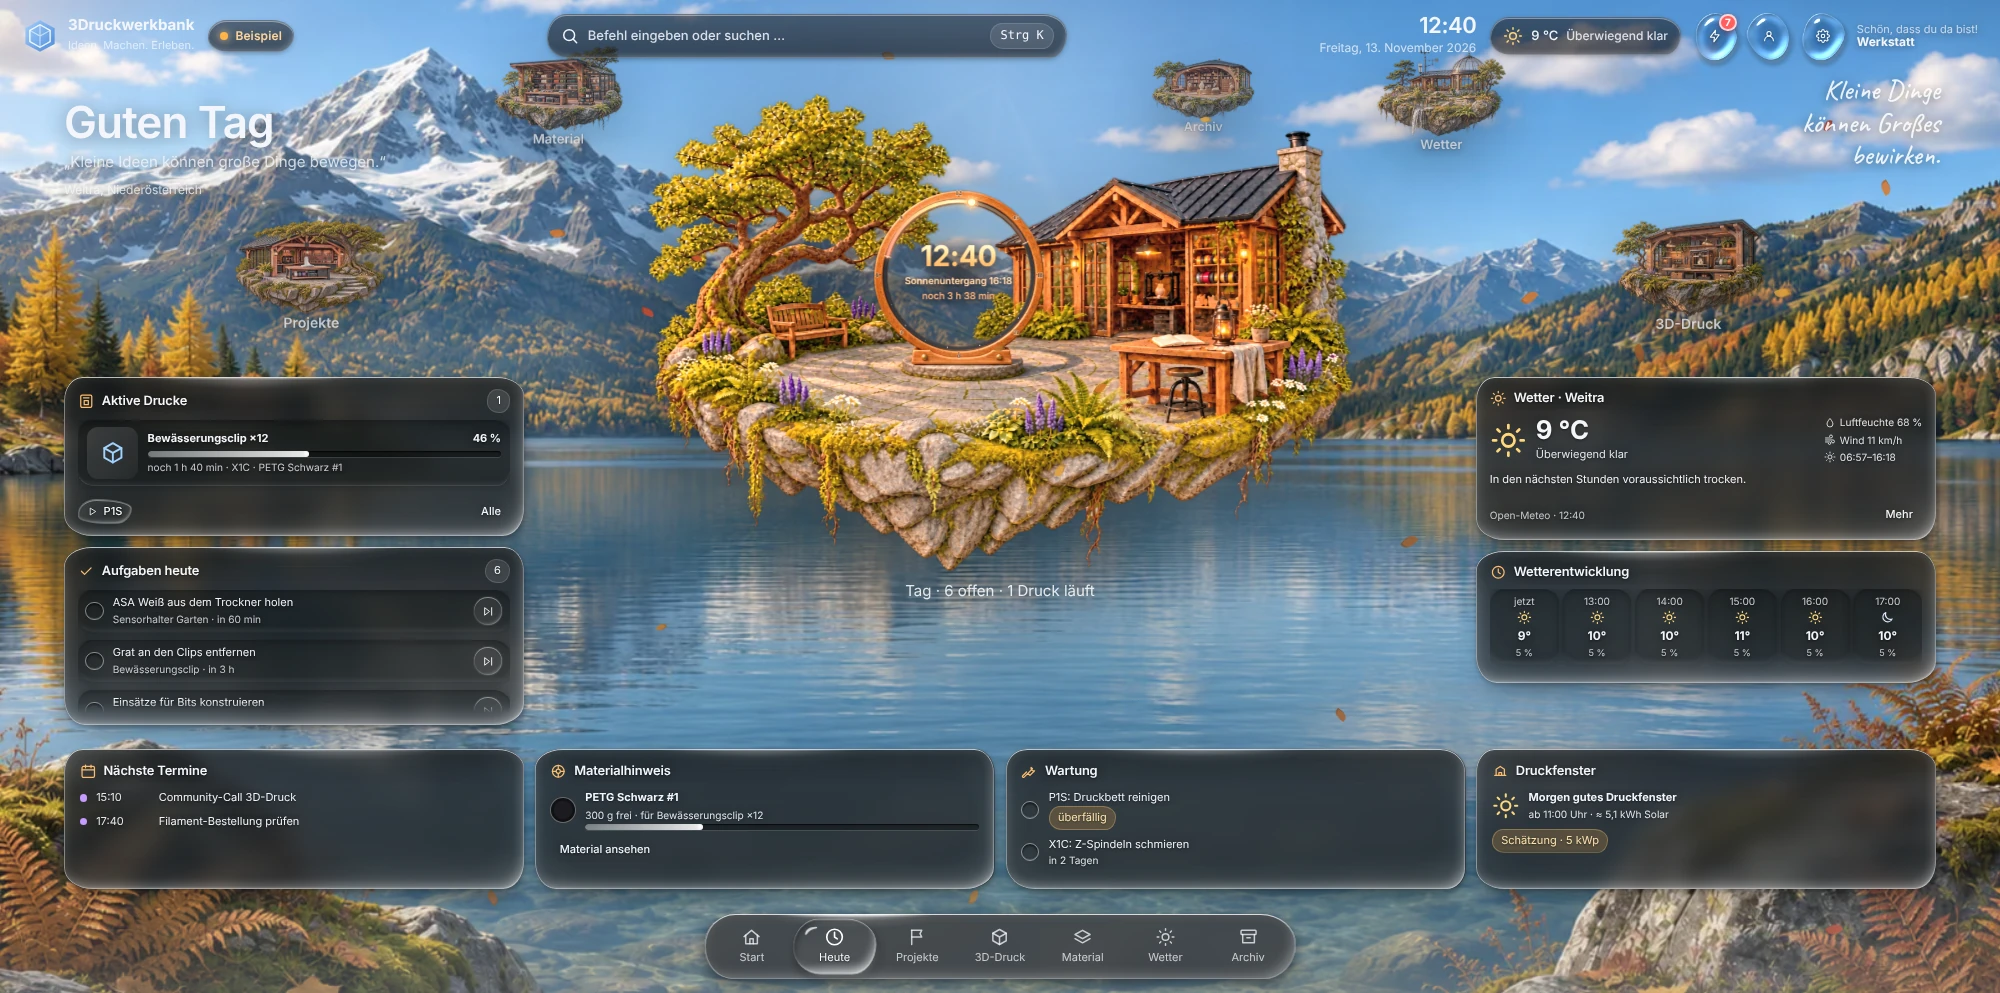
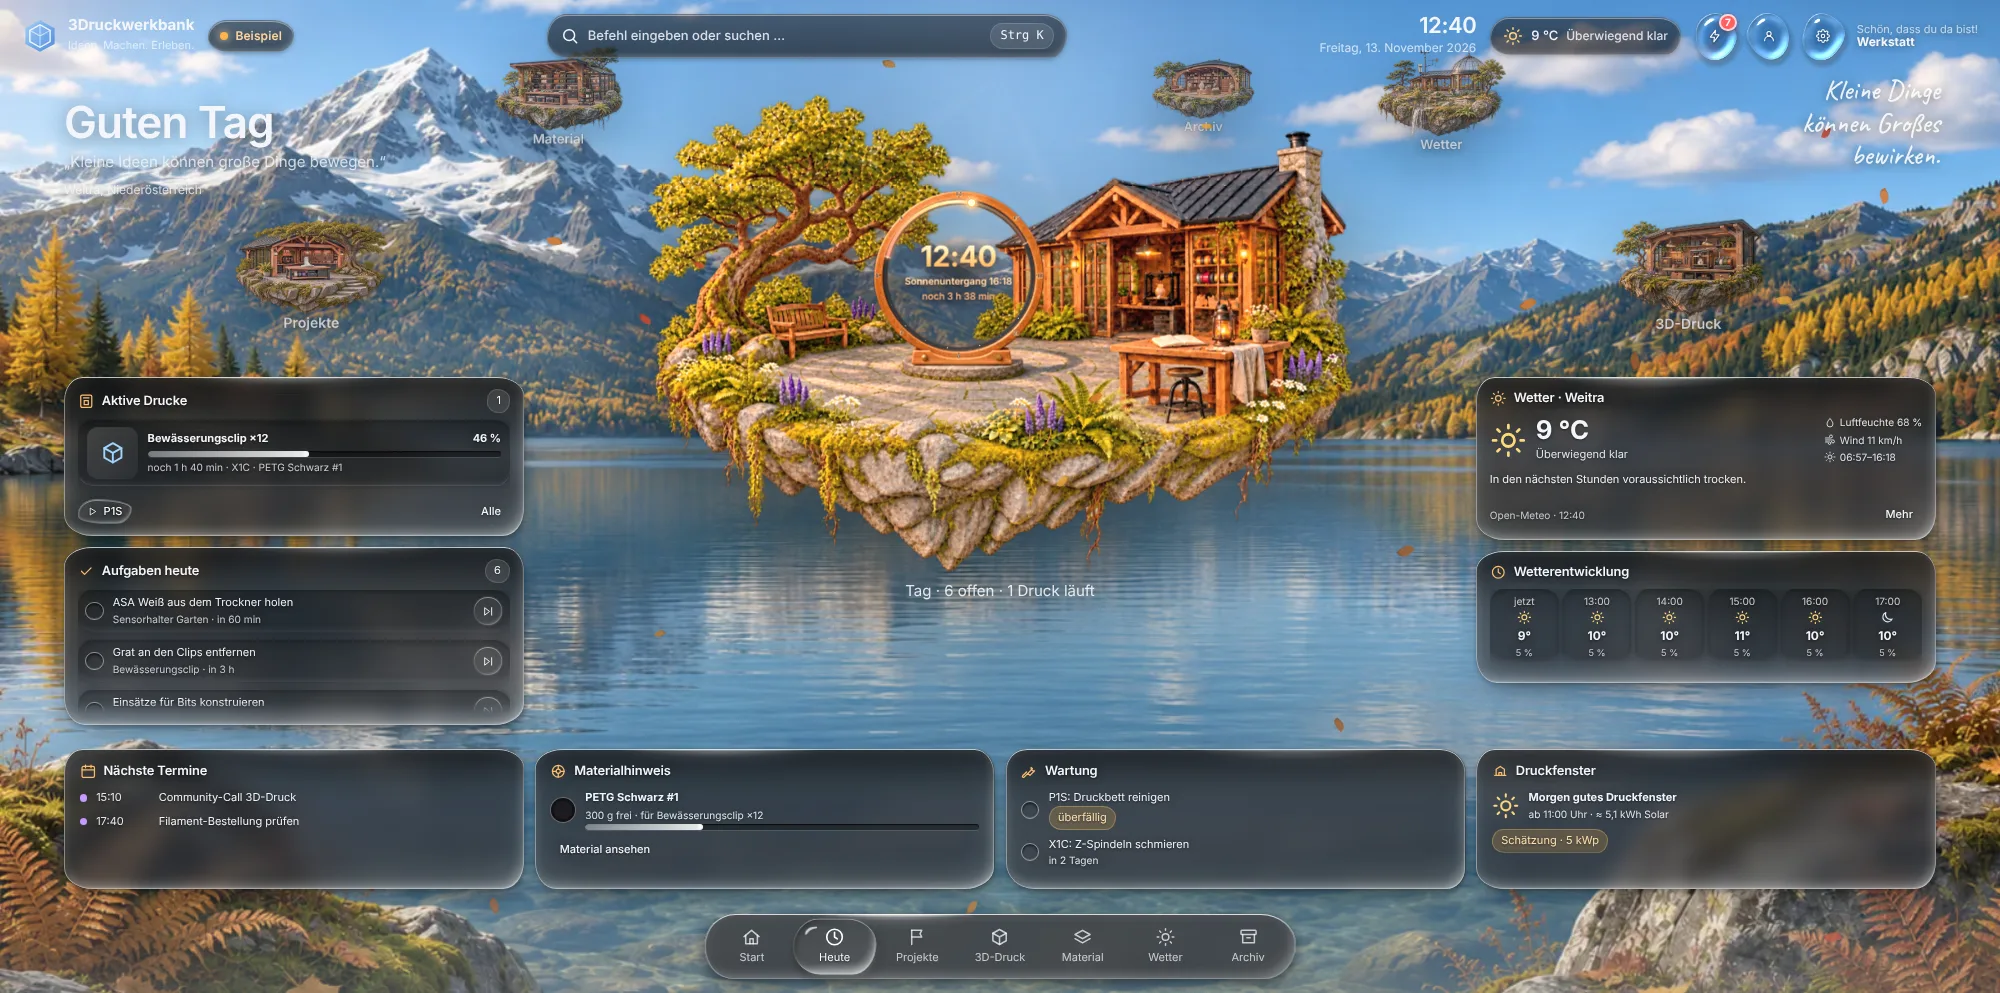
Wasser-Look Feinschliff: Zwischenstand Tempo und Ton (Schritt läuft noch)
Claude-Session: https://claude.ai/code/session_01Bea5Y1uKo4kG3DT62iBBFM

diff --git a/docs/wasser-look/entwurf/NACHSEHEN-FABLE.md b/docs/wasser-look/entwurf/NACHSEHEN-FABLE.md
@@ -49,7 +49,7 @@ Written by Claude Opus 5.5. Both tasks of this step are mine from the start; not
 Written by Claude Opus 5.5 (step of the workflow "Wasser-Look Feinschliff", owner's decisions 7 and 8).
 
 1. **I went beyond the candidate on the desktop, and added two tone tokens.** `kern.css` part 1 (`--wa-weit-grund-panel`, `--wa-weit-kopf` in both blocks; 59 tokens per tone now) and `desktop.css` part 2 (panel `backdrop-filter` and two `box-shadow` lines). Why: the candidate (`--wa-weit-grund: brightness(.8)` for every sheet) held every floor on a November day, but on a winter day (`desktop.mjs kontrast --zeiten 2027-01-15T12:40:00+01:00`) the bottom-row panel title fell to 6.4, "Paneltitel Projekte" to 7.0 and the weather signs' small text to 4.4; the day card's clock fell from 7.1 to 5.1 already in November. I repaired those places (an inset shade over each panel head, a taller one on the day card; dock, weather signs and search keep `brightness(.7)`) instead of darkening the tone. It is a design decision the owner has not seen: the head of a panel in "klar" now stays as dark as before while its middle gets lighter. Check: look at `docs/wasser-look/entwurf/tempo-und-ton/desktop-*.webp` at full size - is the shade at the top of a panel visible as a band? If so, soften the geometry (`inset 0 64px 40px -36px`) or the alpha (.3), then rerun `desktop.mjs kontrast --toene klar --zeiten nacht,tag,2027-01-15T12:40:00+01:00`.
-2. **Thin margins remain.** On the winter day: "Zeile Projekte klein" 4.6 (floor 4.5), "Klickbares Etikett" 4.7, day card date 4.9, day card clock 7.1 (title floor 7, if the clock counts as a title - I treated it as one), "Hauptpanel: Titel" 7.4 (the head shade does not reach it; it is a `b` lower in the panel). One more bright landscape (snow + sun at morning or evening, `regen` look, 1920 x 1080 in winter) might push one of them under. I measured: November day and night at 2000, November day at 1920, one winter noon at 2000 - not winter at 1920, not morning or evening, not the rain landscape.
+2. **Thin margins remain, on the desktop in winter.** Final run on the built look: winter noon at 1920 x 1080 "Klickbares Etikett" (`.panel button.pill`) **4.5** and "Zeile Projekte klein" 4.6 (floor 4.5); at 2000 x 993 4.7 and 4.6; day card date 4.9, day card clock 7.1 (title floor 7, if the clock counts as a title - I treated it as one), "Hauptpanel: Titel" 7.4 (the head shade does not reach it: it is a `b` lower in the panel). Before this step these were 5.7, 5.9, 6.0, 7.2 and 9.1 (winter, 2000). A brighter winter scene (morning or evening landscapes with snow, the `regen` look) was NOT measured and might push one of them under. I measured: November night and noon at 2000, November noon and one winter noon (15.1.2027) at 1920 and 2000. Check: `desktop.mjs kontrast --toene klar --zeiten 2027-01-15T08:40:00+01:00,2027-01-15T15:50:00+01:00 --format 1920`. If one fails, the next repair place is the row text in the side panels (`.side-panel-l .panel__body .xs`) and the head pills - not the tone.
 3. **The floor of 7 for the day card's clock and of 4.5 for its greeting are my reading.** The guide says "titles 7" (desktop.mjs uses 7 for panel titles only). I first measured the 14 px peach greeting against 7 and saw it "fail" before any change (6.1) - it is running text, so 4.5. If the owner or Fable reads "title" differently (e.g. the greeting is a title), the phone's greeting (5.4) and the desktop's (7.5 by day after the repair) need another look.
 4. **The search field's placeholder is below 3 in "klar"** (phone 2.3, desktop 2.6 at night, 1.9 by day), before and after this step. Not repaired (needs its own tone token, the field has no class of the look and shows the browser's placeholder colour). Check: `node scripts/wasser/kontrast.mjs --toene dunkel,klar --css '.cmd__input input' --welt start --bogen suche --art platzhalter --zeiten tag`.
 5. **`--wa-under` keeps its rgb (31, 35, 37)** although the exact mix of clear + shelf + deep is now (37, 43, 48). Measured on the harness: drop labels change by at most 0.1 with the exact colour - so it was a matter of taste and I kept the candidate. Not judged by eye at full size on a real screen. Check: `node scripts/wasser/bild.mjs <dir> nah --toene klar` with both values (a copy of the template with the exact colour is quick to make) and compare a drop's body with the card around it.
@@ -58,4 +58,4 @@ Written by Claude Opus 5.5 (step of the workflow "Wasser-Look Feinschliff", owne
 8. **The before/after pictures are stills at reduced motion** (no wandering lights), so that only the water differs; the owner sees the lights on his screen. Before = the build of `feinschliff-basis` (19447f6, what is live), after = this branch's build, both from the same machine and browser.
 9. **"dunkel" identity was proven against `git:52dfff3` (the state before this step), not against `feinschliff-basis`.** Against the basis, sheets and the search differ inside drops because of the step before (its point 17). See the sollist line in the guide's step 10.
 10. **Not checked:** WebKit (Playwright's WebKit paints no backdrop-filter, so its contrast numbers for "klar" are meaningless - not run), Firefox, a real phone, the owner's RTX screen, Safari. The phone scenes have no time of day: "phone by day" only fixes the clock (no weather, so the phone's day card was measured without its weather and daylight lines; its small daylight labels were not measured on the phone).
-11. **Old klar pictures:** I renewed the "klar" pictures that the guide links (phone harness, phone app, close-ups, sheet of blocks; desktop Heute day/night, Projekte, Wetter). `docs/wasser-look/bilder/desktop/vorher-nachher-tag.webp` (the app before the look against the template, both "Wetter bei Tag") still shows the OLD "klar" in its lower half - see the guide's picture table.
+11. **Old klar pictures:** I renewed the "klar" pictures that the guide links (phone harness, phone app, close-ups, sheet of blocks; desktop Heute day/night, Projekte, Wetter). `docs/wasser-look/bilder/desktop/vorher-nachher-tag.webp` (the app before the look against the template, both "Wetter bei Tag") still shows the OLD "klar" in its lower half (noted in the guide's picture table); so do the films `mobil.mp4` / `desktop.mp4` and the filmstrips `film-*.webp` (old pace; they were never meant to be redone per change). The klar pictures under `docs/wasser-look/bilder/anleitung/` (the guide's sample page) were not checked by me.

diff --git a/docs/Wasser-Look.md b/docs/Wasser-Look.md
@@ -45,7 +45,7 @@ Alle Befehle laufen aus dem Projektordner. Ausgaben gehen nach `screenshots/` (n
 | **Desktop**, „klar“ vorher / nachher (14.11. abends, Schritt 10) | | Mittag: [Start](wasser-look/entwurf/tempo-und-ton/desktop-tag-start.webp) · [Heute](wasser-look/entwurf/tempo-und-ton/desktop-tag-heute.webp) · [Projekte](wasser-look/entwurf/tempo-und-ton/desktop-tag-projekte.webp) – Nacht: [Start](wasser-look/entwurf/tempo-und-ton/desktop-nacht-start.webp) · [Heute](wasser-look/entwurf/tempo-und-ton/desktop-nacht-heute.webp) · [Projekte](wasser-look/entwurf/tempo-und-ton/desktop-nacht-projekte.webp) |
 
 Bewegung als Bildstreifen: Handy [Reiterwechsel](wasser-look/bilder/mobil/film-tab.webp), [Knopfdruck mit Ring](wasser-look/bilder/mobil/film-druck.webp), [Bogen steigt](wasser-look/bilder/mobil/film-bogen.webp); Desktop [Dock, Schublade, Ruhe](wasser-look/bilder/desktop/film-1.webp), [Ring, Mauszeiger](wasser-look/bilder/desktop/film-2.webp), [Pfeil, Lauflinie](wasser-look/bilder/desktop/film-3.webp).
-Filme: [mobil.mp4](wasser-look/bilder/mobil/mobil.mp4), [desktop.mp4](wasser-look/bilder/desktop/desktop.mp4) – auf der Arbeitsmaschine aufgenommen, daher ruckelig. Das Tempo der Lichter, bisher gegen neu (Schritt 9): [tempo.mp4](wasser-look/entwurf/tempo-und-ton/tempo.mp4), als Bildstreifen [tempo.webp](wasser-look/entwurf/tempo-und-ton/tempo.webp).
+Filme: [mobil.mp4](wasser-look/bilder/mobil/mobil.mp4), [desktop.mp4](wasser-look/bilder/desktop/desktop.mp4) – auf der Arbeitsmaschine aufgenommen, daher ruckelig; sie zeigen noch das Tempo und das „klar“ vor dem 14.11. abends. Das Tempo der Lichter, bisher gegen neu (Schritt 9): [tempo.mp4](wasser-look/entwurf/tempo-und-ton/tempo.mp4), als Bildstreifen [tempo.webp](wasser-look/entwurf/tempo-und-ton/tempo.webp).
 
 ---
 
@@ -955,7 +955,7 @@ Nur der Ton „klar“. Durchsichtiger heißt: mehr von der Szene durch das Wass
 - **Warum die Reparatur am Desktop** (Auftrag: keine Grenze unterschreiten, und wenn doch, die Stelle reparieren statt den Ton wieder abzudunkeln): Der erste Versuch (`--wa-weit-grund` für alles auf `brightness(.8)`) hielt bei Tag im November alle Grenzen, an einem **Wintertag** (Schnee in der Landschaft: `desktop.mjs kontrast --zeiten 2027-01-15T12:40:00+01:00`) nicht: Paneltitel unten 6,4 (vorher 8,1), Paneltitel „Projekte“ 7,0 (8,8), Wetterzeichen klein 4,4 (4,8); auf der Tageskarte fiel die Uhr bei Tag von 7,1 auf 5,1 und das Datum im Winter auf 4,5. Repariert sind genau diese Stellen: Die Köpfe der Panels behalten ihren Grund (der Schatten), kleine Flächen mit kleiner Schrift (Wetterzeichen) und das Dock behalten ihre alte Abdunkelung. Die Mitte jedes Panels ist durchsichtiger.
 - **Gemessen** (Arbeitsmaschine, Chromium, reduzierte Bewegung; Median über die Bildpunkte der Buchstaben, vorher → nachher; der niedrigste Wert über alle Szenen):
   - **Handy** (`kontrast.mjs --app --toene klar`, acht Szenen und die App): kein Median unter der Grenze. Kartentitel 10,6 → 9,6 (niedrigster), Zeile: Titel 11,2 → 10,2, Zähler 6,6 → 5,8, Tropfen auf Karte 7,4 → 6,7, Tropfen klein 6,8 → 6,1. Bögen, Felder, Suche, Hinweis: gleich (±0,2). Von Hand dazu (Start bei Tag – Schnee und Wolken hinter der Tageskarte): Uhr 10,2 → 9,1, Gruß 6,1 → 5,4, Datum 9,5 → 8,7; Einstellungen über „Start“: Titel 10,8 → 10,7; Platzhalter eines Felds auf einer Karte („Material“, „Projekt“) 6,8 → 6,6 und 6,7 → 6,5; kleine Schrift in Mulden 6,7 → 6,0.
-  - **Desktop** (`desktop.mjs kontrast --toene klar`, 2000 × 993; dazu ein Wintertag und 1920 × 1080 bei Tag): §DESKTOP§
+  - **Desktop** (`desktop.mjs kontrast --toene klar`, 2000 × 993; dazu ein Wintertag und 1920 × 1080 bei Tag): kein Median unter der Grenze, bei Nacht, bei Tag (13.11., 12:40) und an einem Wintertag (15.1., 12:40, Schnee), in 2000 × 993 und (Tag, Winter) 1920 × 1080. Bei Tag, 2000: Paneltitel 9,6 bis 14,2 (vorher 9,6 bis 14,1), Paneltitel „Projekte“ 8,8 → 8,7, Hauptpanel: Titel 9,5 → 7,8, Text auf offenem Wasser 9,1 → 7,6, Große Zahl 9,5 → 7,8. Im Winter, 2000: Paneltitel unten 8,1 → 8,1, „Projekte“ 8,8 → 8,6, Hauptpanel: Titel 9,1 → 7,4, Text auf offenem Wasser 6,8 → 5,3, Zeile „Projekte“ klein 5,9 → 4,6, klickbares Etikett 5,7 → 4,7, Wetterzeichen klein 4,8 → 4,8. Im Winter, 1920: klickbares Etikett 4,5 und Zeile „Projekte“ klein 4,6 – genau an der Grenze (vorher dort nicht gemessen). Bei Nacht ist der niedrigste Verlust 1,5 (Geist-Knopf im Panel 12,0 → 10,5). Dock, Wetterzeichen, Suche, Schublade, Hinweis: gleich (±0,4). Die Tageskarte von Hand (`kontrast.mjs --css … --desktop`): Nacht / Tag / Winter, vorher → nachher: Uhr (als Titel, Grenze 7) 14,5 → 14,8 / 7,1 → 7,1 / 7,2 → 7,1; Gruß 12,5 → 13,2 / 6,6 → 7,5 / 6,8 → 7,7; Datum 10,8 → 10,1 / 7,2 → 5,9 / 6,0 → 4,9; Tageslicht-Beschriftung 12,9 → 12,4 / 10,0 → 8,6 / 8,3 → 6,7; kleine Schrift 10,2 → 9,8 / 8,3 → 7,5 / 7,5 → 6,8. Ohne den Schatten über dem Kopf fiel die Uhr bei Tag auf 5,1, im Winter auf 5,2, und das Datum im Winter auf 4,5.
 - **Ein Mangel, der schon vorher da war** (nicht von diesem Schritt, nicht repariert): Der Platzhalter des Suchfelds („Projekte, Versionen, …“) hat im Ton „klar“ 2,3 bis 2,6, am Desktop bei Tag 1,9 – unter 3, vorher wie nachher. Das Suchfeld trägt keine Klasse des Looks; sein Platzhalter hat die Farbe des Browsers. Eine Reparatur bräuchte einen eigenen Wert je Ton (in „dunkel“ hält er mit 4,0 die Grenze und darf sich nicht ändern).
 - **Zurückdrehen:** im Block „klar“ `--wa-shelf` .21, `--wa-deep` .25, `--wa-under` .56, `--wa-weit-grund-panel: brightness(.7)`, `--wa-weit-kopf: transparent` – dann ist „klar“ wieder, wie es war. Weiter drehen: dieselben Werte; danach `kontrast.mjs --app --toene klar --szenen start,heute,projekte,material,druck,wetter,archiv,innen` und `desktop.mjs kontrast --toene klar --zeiten nacht,tag,2027-01-15T12:40:00+01:00`.
 - **Bilder für ihn** (vorher = der Stand `feinschliff-basis`, der live ist; nachher = dieser Stand; Ton „klar“, Mittag 12:40 und Nacht 21:30, deviceScaleFactor 2, reduzierte Bewegung, damit nur das Wasser verglichen wird): `docs/wasser-look/entwurf/tempo-und-ton/` – je Bildschirm ein Bild „vorher | nachher“ (Handy: Start, Heute, Projekte, Bogen „Neues Projekt“; Desktop 2000 × 993: Start, Heute, Projekte) und die Einzelbilder im Unterordner `einzeln/`.

diff --git a/docs/wasser-look/vorlage/NOTIZEN.md b/docs/wasser-look/vorlage/NOTIZEN.md
@@ -1301,7 +1301,13 @@ only offsets a start by fractions of `--wa-t-ruhe-3`).
   10.6 -> 9.6, row title 11.2 -> 10.2, count 6.6 -> 5.8, drop on a card 7.4 -> 6.7, small drop 6.8 -> 6.1 (worst 5 %:
   5.1 -> 4.5); sheets, fields, search, toast within 0.2. By hand (Start, the start scene's snow and clouds behind the day
   card): clock 10.2 -> 9.1, greeting 6.1 -> 5.4, date 9.5 -> 8.7; a placeholder in a field ON a card 6.8 -> 6.6.
-- Contrast, desktop: DESKTOP_NUMBERS
+- Contrast, desktop (`desktop.mjs kontrast --toene klar`, built look; night, a November day, a winter day; 2000 x 993,
+  and day + winter at 1920 x 1080): no median below its floor. By day at 2000: panel titles 9.6 to 14.2 (before 9.6 to
+  14.1), main panel title 9.5 -> 7.8, text on open water 9.1 -> 7.6. Winter at 2000: bottom panel title 8.1 -> 8.1,
+  "Projekte" 8.8 -> 8.6, main panel title 9.1 -> 7.4, row "Projekte" small 5.9 -> 4.6, clickable label 5.7 -> 4.7.
+  Winter at 1920: clickable label 4.5 and row "Projekte" small 4.6 - at the floor. The day card by hand (night / day /
+  winter, before -> after): clock 14.5 -> 14.8 / 7.1 -> 7.1 / 7.2 -> 7.1, greeting 6.6 -> 7.5 by day, date 7.2 -> 5.9
+  by day and 6.0 -> 4.9 in winter. Dock, weather signs, search, drawer, toast: within 0.4.
 - Found, not caused by this step and not repaired: the placeholder of the search field has 2.3 to 2.6 in "klar" (1.9
   on the desktop by day), below 3, before and after. The field carries no class of the look; its placeholder has the
   browser's colour. In "dunkel" it has 4.0 and may not change, so a repair needs a tone token of its own.

diff --git a/docs/wasser-look/vorlage/LIESMICH.md b/docs/wasser-look/vorlage/LIESMICH.md
@@ -231,3 +231,12 @@ wählen sie über die Einstellung der App; ein falsch geschriebener Schalter bee
 `sollist.mjs` (zwei Stände der App, Bildpunkt für Bildpunkt). An der Vorlage geändert: `desktop.css` nennt die drei
 Klassen des Einbaus selbst (die Brücke `src/wasser/einbau.css` ist aufgelöst), dazu Kommentare. Die Vorschauseite
 beginnt mit der Tageskarte. Was dabei geprüft wurde: `docs/Wasser-Look.md`, Abschnitt 11.
+
+**Tempo und „klar“ (14.11., abends; Entscheidungen 7 und 8 – der Besitzer hat beides noch nicht gesehen):** Die
+wandernden Lichter laufen etwa 1,4-mal so schnell (17 / 24 / 29 / 33 s statt 24 / 34 / 40 / 46 s; die Stärke bleibt 1).
+Der Ton „klar“ ist durchsichtiger: weniger Tiefe in der Mitte der Karten und Panels, am Desktop dunkelt ein Panel die
+Landschaft weniger ab. Damit die Titel der Panels auch an einem Wintertag lesbar bleiben, liegt im Ton „klar“ ein
+weicher Schatten über dem Kopf jedes Panels (auf der Tageskarte unter Gruß, Uhr und Datum); Dock, Wetterzeichen und
+Suche behalten ihre Abdunkelung. Zwei neue Werte je Ton (`--wa-weit-grund-panel`, `--wa-weit-kopf`), „dunkel“ ist
+Bildpunkt für Bildpunkt gleich. Bilder vorher/nachher und der Film zum Tempo: `docs/wasser-look/entwurf/tempo-und-ton/`;
+Werte, Zahlen und wie man sie zurückdreht: `docs/Wasser-Look.md`, Abschnitt 8, Schritte 9 und 10.
